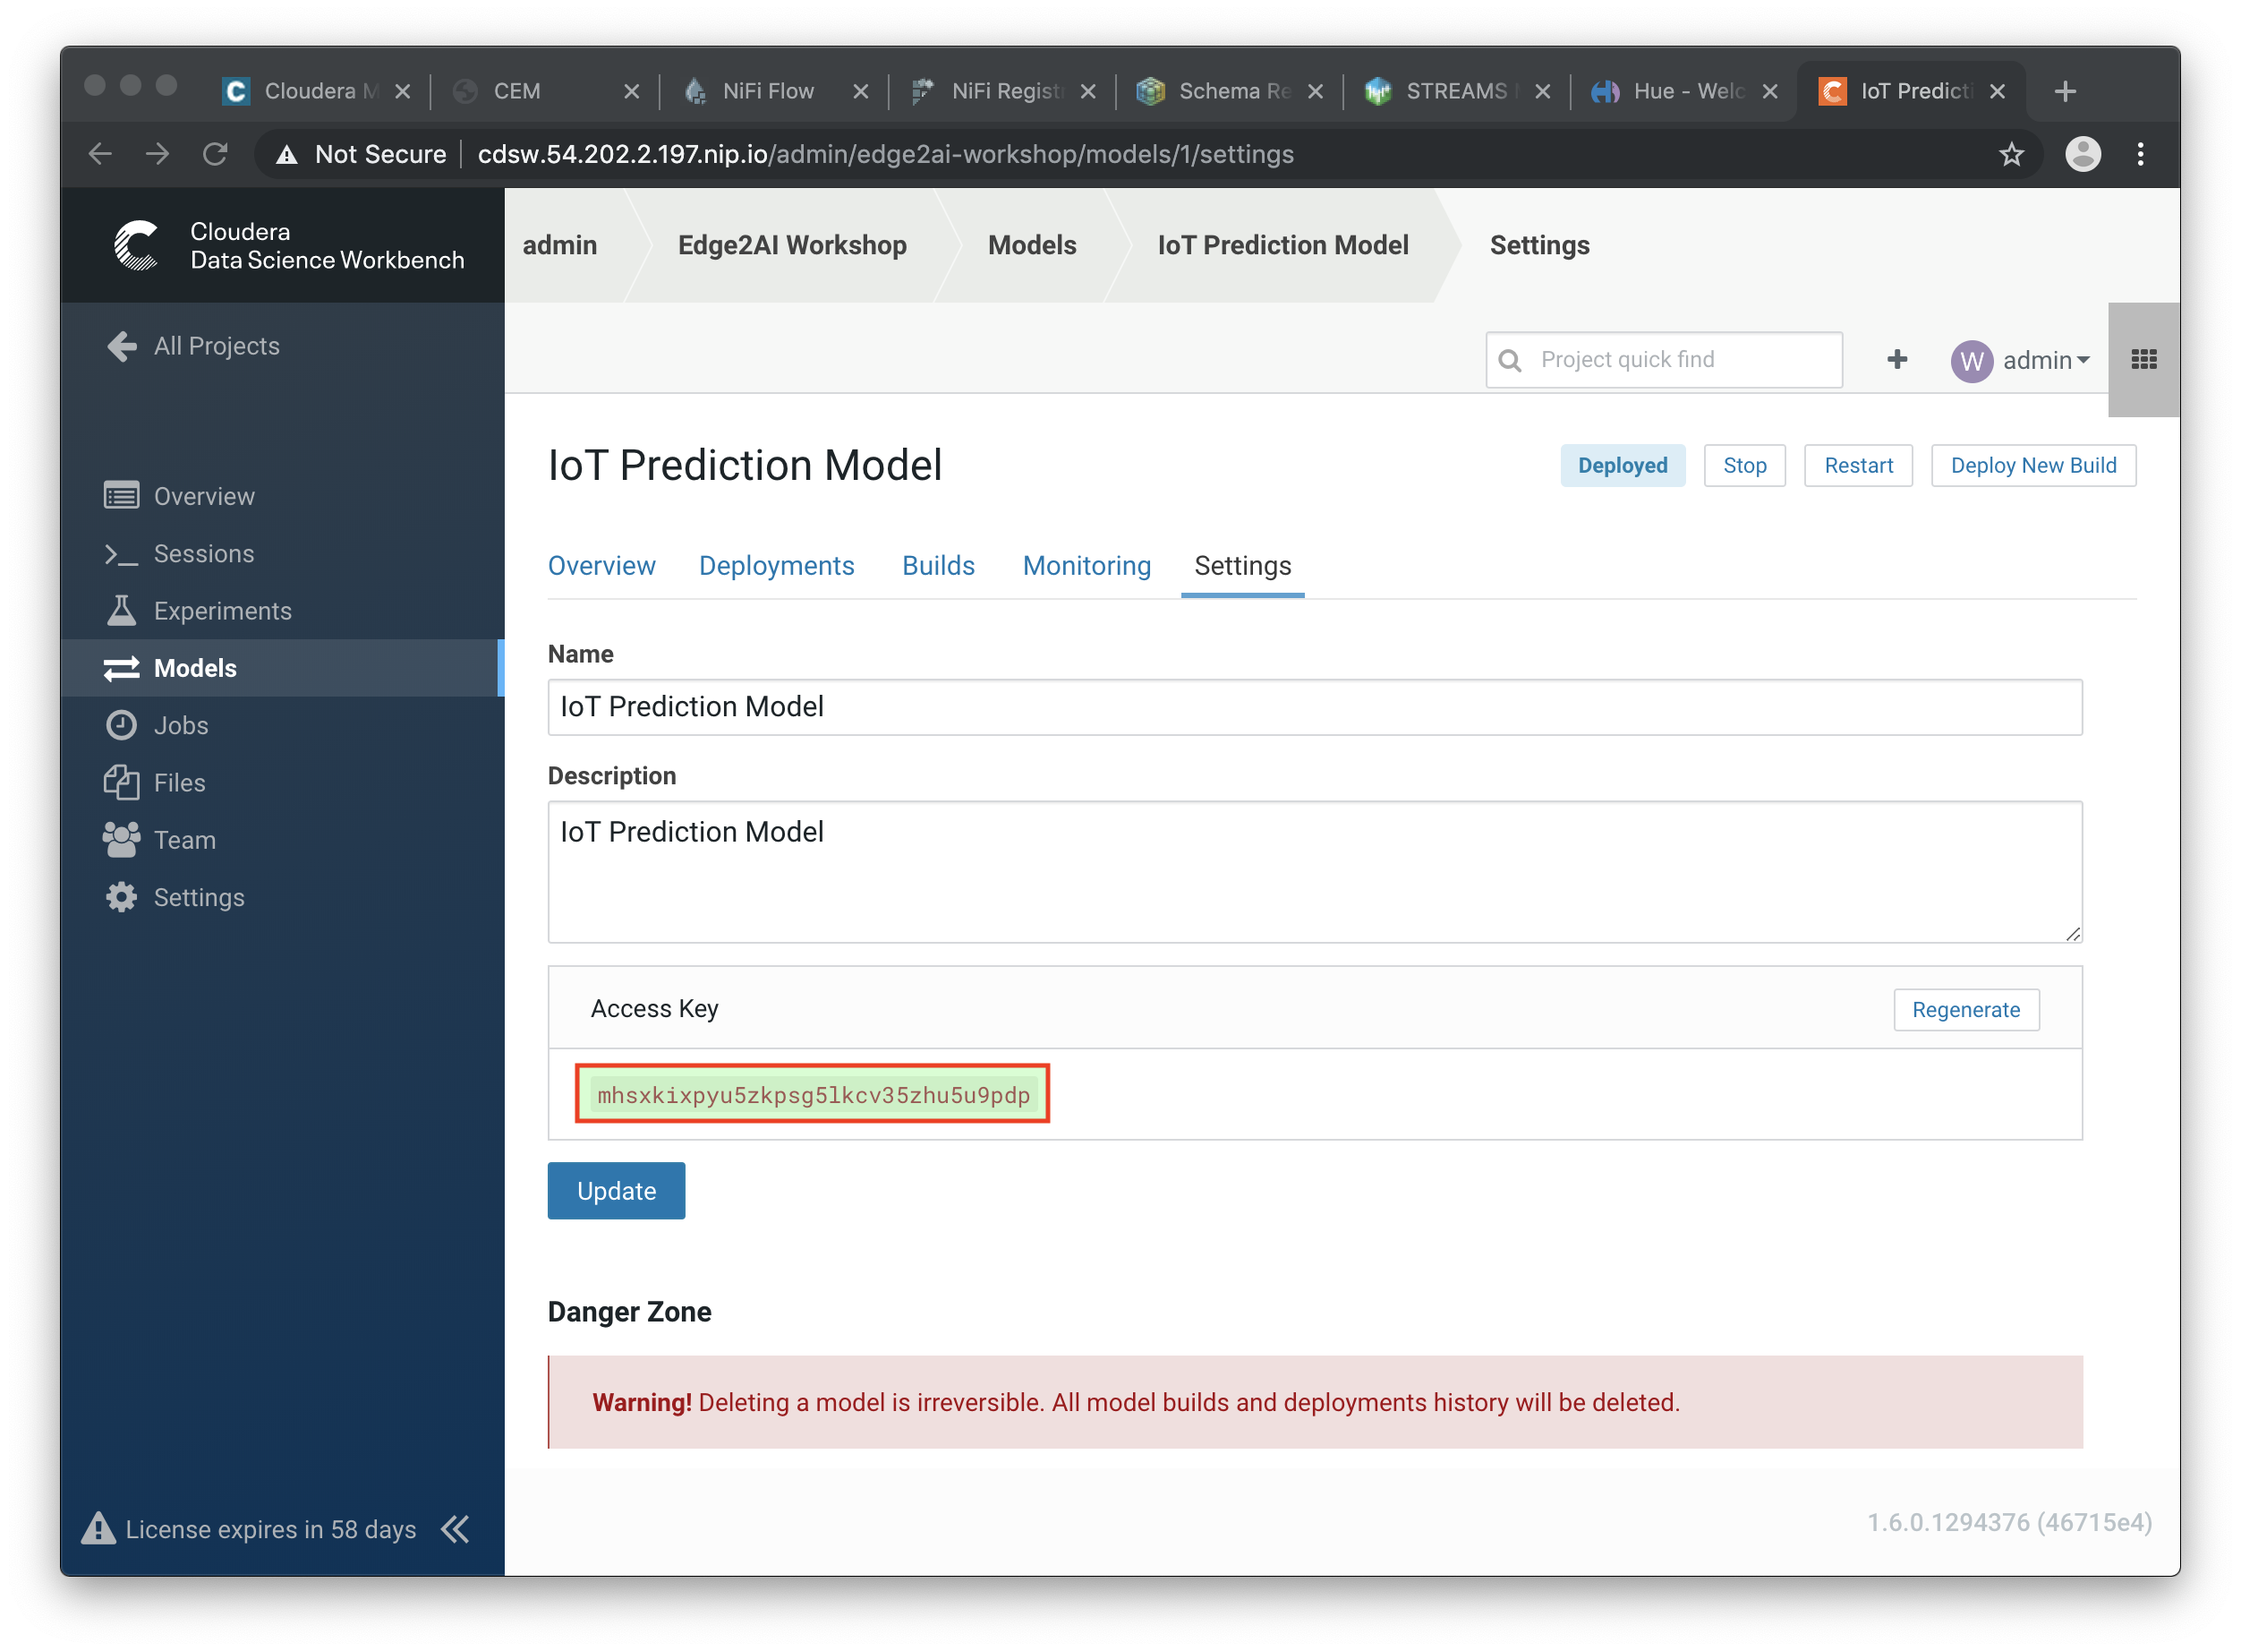
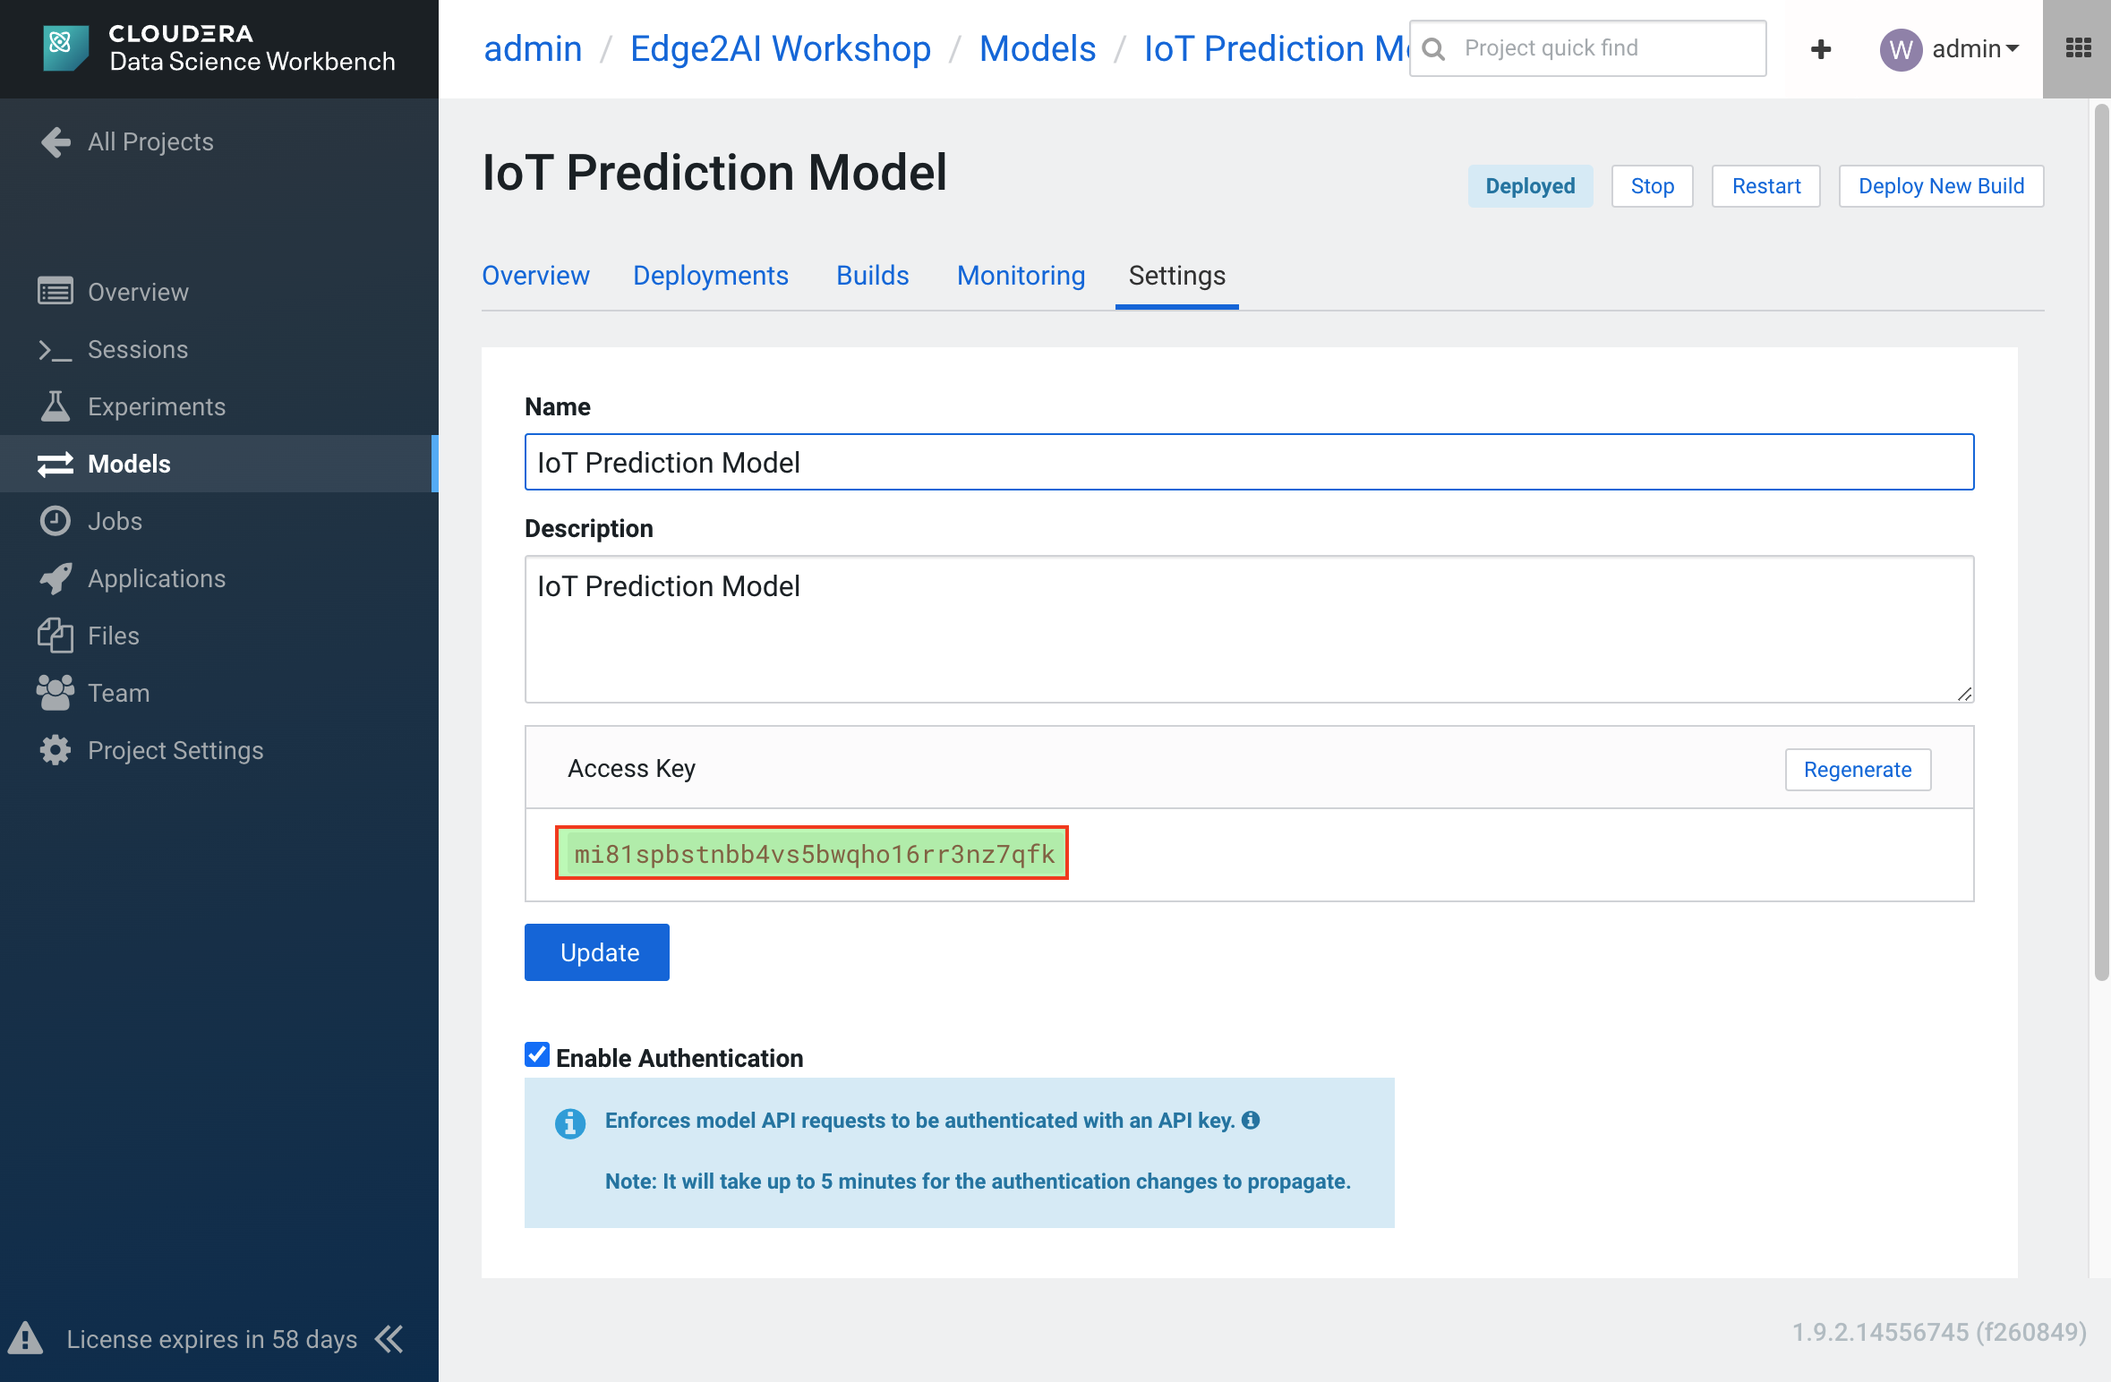
Fixed CDSW lookup in NiFi workshop

diff --git a/setup/terraform/resources/labs/workshop_nifi.py b/setup/terraform/resources/labs/workshop_nifi.py
@@ -82,6 +82,7 @@ class NiFiWorkshop(AbstractWorkshop):
             versioning.delete_registry_client(reg_client)
         nifireg.delete_flows('SensorFlows')
         kudu.drop_table()
+        cdsw.delete_all_model_api_keys()
 
     def lab1_register_schema(self):
         # Create Schema
@@ -232,6 +233,13 @@ class NiFiWorkshop(AbstractWorkshop):
         kudu.create_table()
         kudu_table_name = kudu.get_kudu_table_name('default', 'sensors')
 
+        # Set required variables
+        if not self.context.skip_cdsw:
+            # Set the variable with the CDSW access key
+            canvas.update_variable_registry(self.context.sensor_pg, [('cdsw.access.key', cdsw.get_model_access_key())])
+            # Set the variable with the CDSW model API key
+            canvas.update_variable_registry(self.context.sensor_pg, [('cdsw.model.api.key', cdsw.create_model_api_key())])
+
         # Create controllers
         self.context.json_reader_with_schema_svc = nf.create_controller(
             self.context.sensor_pg,
@@ -243,9 +251,10 @@ class NiFiWorkshop(AbstractWorkshop):
             True,
             name='JsonTreeReader - With schema identifier')
         props = {
-            'rest-lookup-url': cdsw.get_altus_api_url() + '/models/call-model',
+            'rest-lookup-url': cdsw.get_model_endpoint_url(),
             'rest-lookup-record-reader': self.context.json_reader_svc.id,
-            'rest-lookup-record-path': '/response'
+            'rest-lookup-record-path': '/response',
+            'Authorization': 'Bearer ${cdsw.model.api.key}',
         }
         if is_tls_enabled():
             props.update({
@@ -382,10 +391,6 @@ class NiFiWorkshop(AbstractWorkshop):
         nifireg.save_flow_ver(self.context.sensor_pg, self.context.reg_client, self.context.sensor_bucket,
                               flow_id=self.context.sensor_flow.version_control_information.flow_id,
                               comment='Second version - {}'.format(self.run_id))
-
-        # Set the variable with the CDSW access key
-        if not self.context.skip_cdsw:
-            canvas.update_variable_registry(self.context.sensor_pg, [('cdsw.access.key', cdsw.get_model_access_key())])
 
         # Start everything
         canvas.schedule_process_group(self.context.root_pg.id, True)

diff --git a/setup/terraform/resources/labs/utils/cdsw.py b/setup/terraform/resources/labs/utils/cdsw.py
@@ -1,5 +1,6 @@
 #!/usr/bin/env python3
 # -*- coding: utf-8 -*-
+from datetime import datetime, timedelta
 from . import *
 
 _CDSW_MODEL_NAME = 'IoT Prediction Model'
@@ -17,7 +18,7 @@ def get_altus_api_url():
     return get_url_scheme() + '://cdsw.%s.nip.io/api/altus-ds-1' % (get_public_ip(),)
 
 
-def _get_model_endpoint_url():
+def get_model_endpoint_url():
     return get_url_scheme() + '://modelservice.cdsw.%s.nip.io/model' % (get_public_ip(),)
 
 
@@ -52,6 +53,30 @@ def _deploy_model(model):
         'memoryMb': 4096,
         'cpuMillicores': 1000,
     })
+
+
+def _get_model_api_keys():
+    resp = _get_session().get(_get_api_url() + '/users/{}/modelapikey'.format(_CDSW_USERNAME))
+    if resp.status_code == requests.codes.ok:
+        return resp.json()
+    return None
+
+
+def _delete_model_api_key(keyid):
+    return _get_session().delete(_get_api_url() + '/users/{}/modelapikey/{}'.format(_CDSW_USERNAME, keyid))
+
+
+def delete_all_model_api_keys():
+    for key in _get_model_api_keys():
+        _delete_model_api_key(key['keyid'])
+
+
+def create_model_api_key():
+    resp = _get_session().post(_get_api_url() + '/users/{}/modelapikey'.format(_CDSW_USERNAME),
+                               json={'expiryDate': (datetime.utcnow() + timedelta(days=365)).isoformat()[:23] + 'Z'})
+    if resp.status_code == requests.codes.ok:
+        return resp.json()['modelapikey']
+    return None
 
 
 def get_model_access_key():
